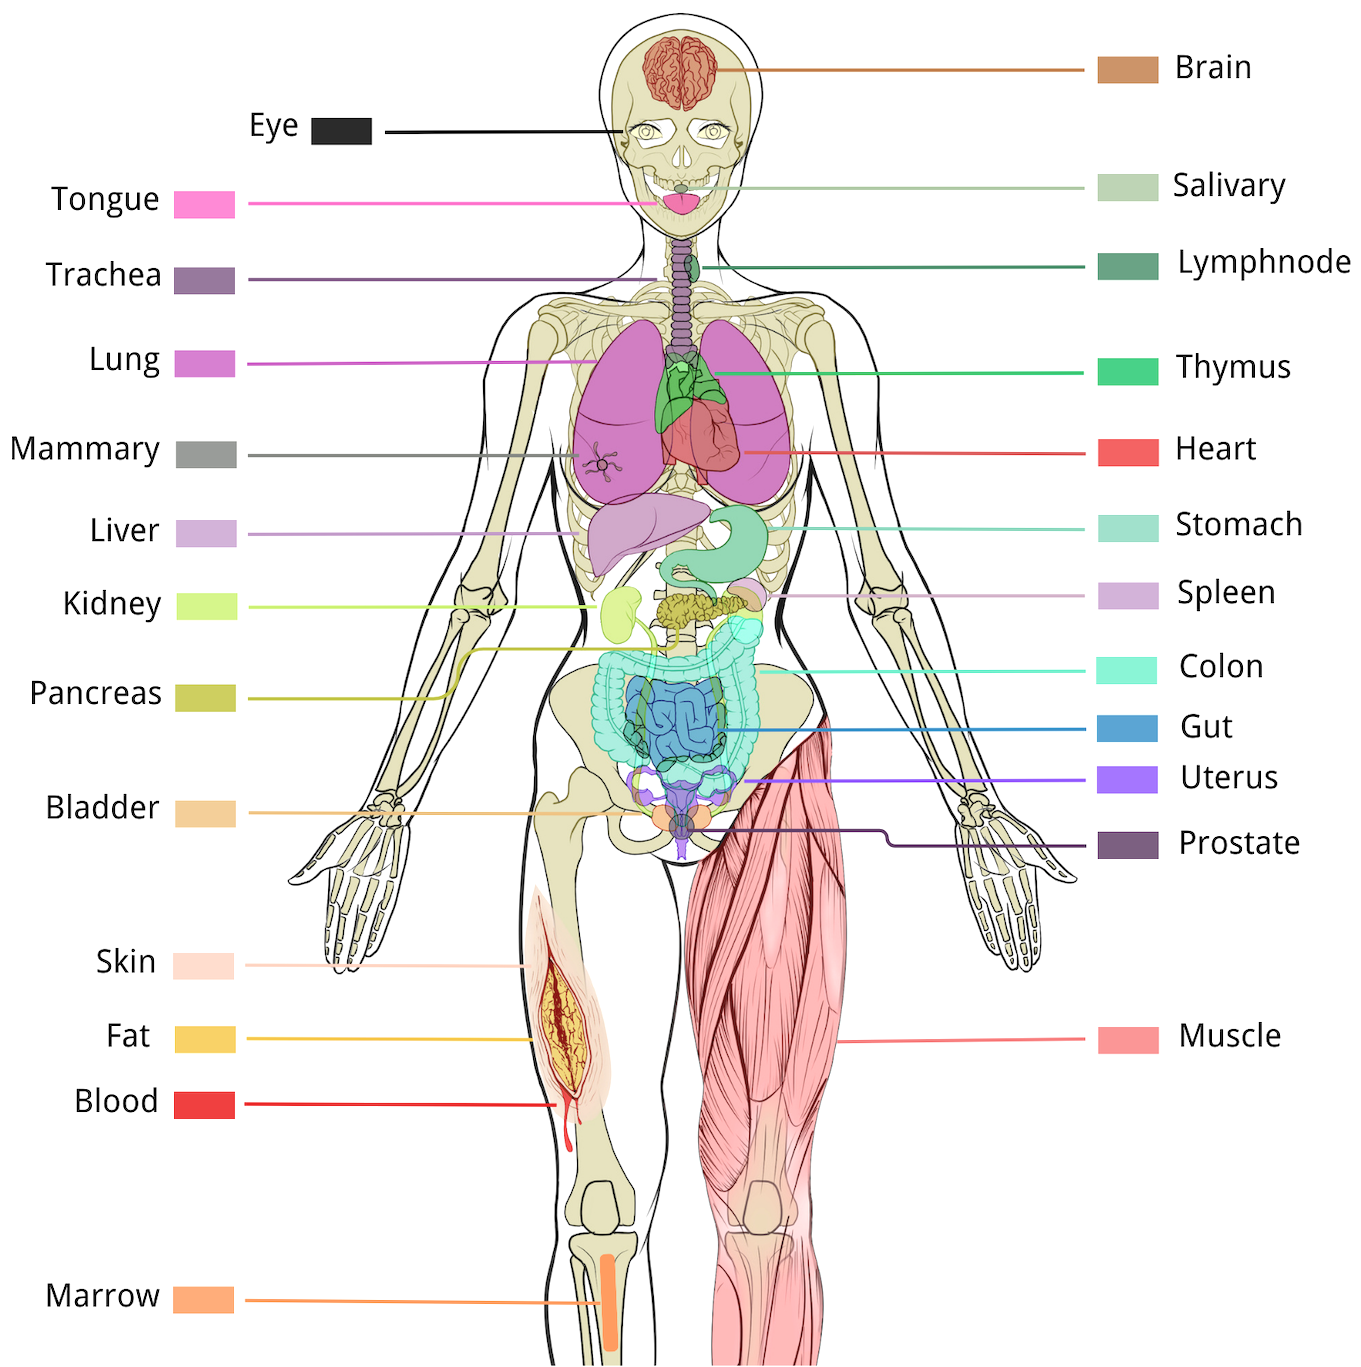
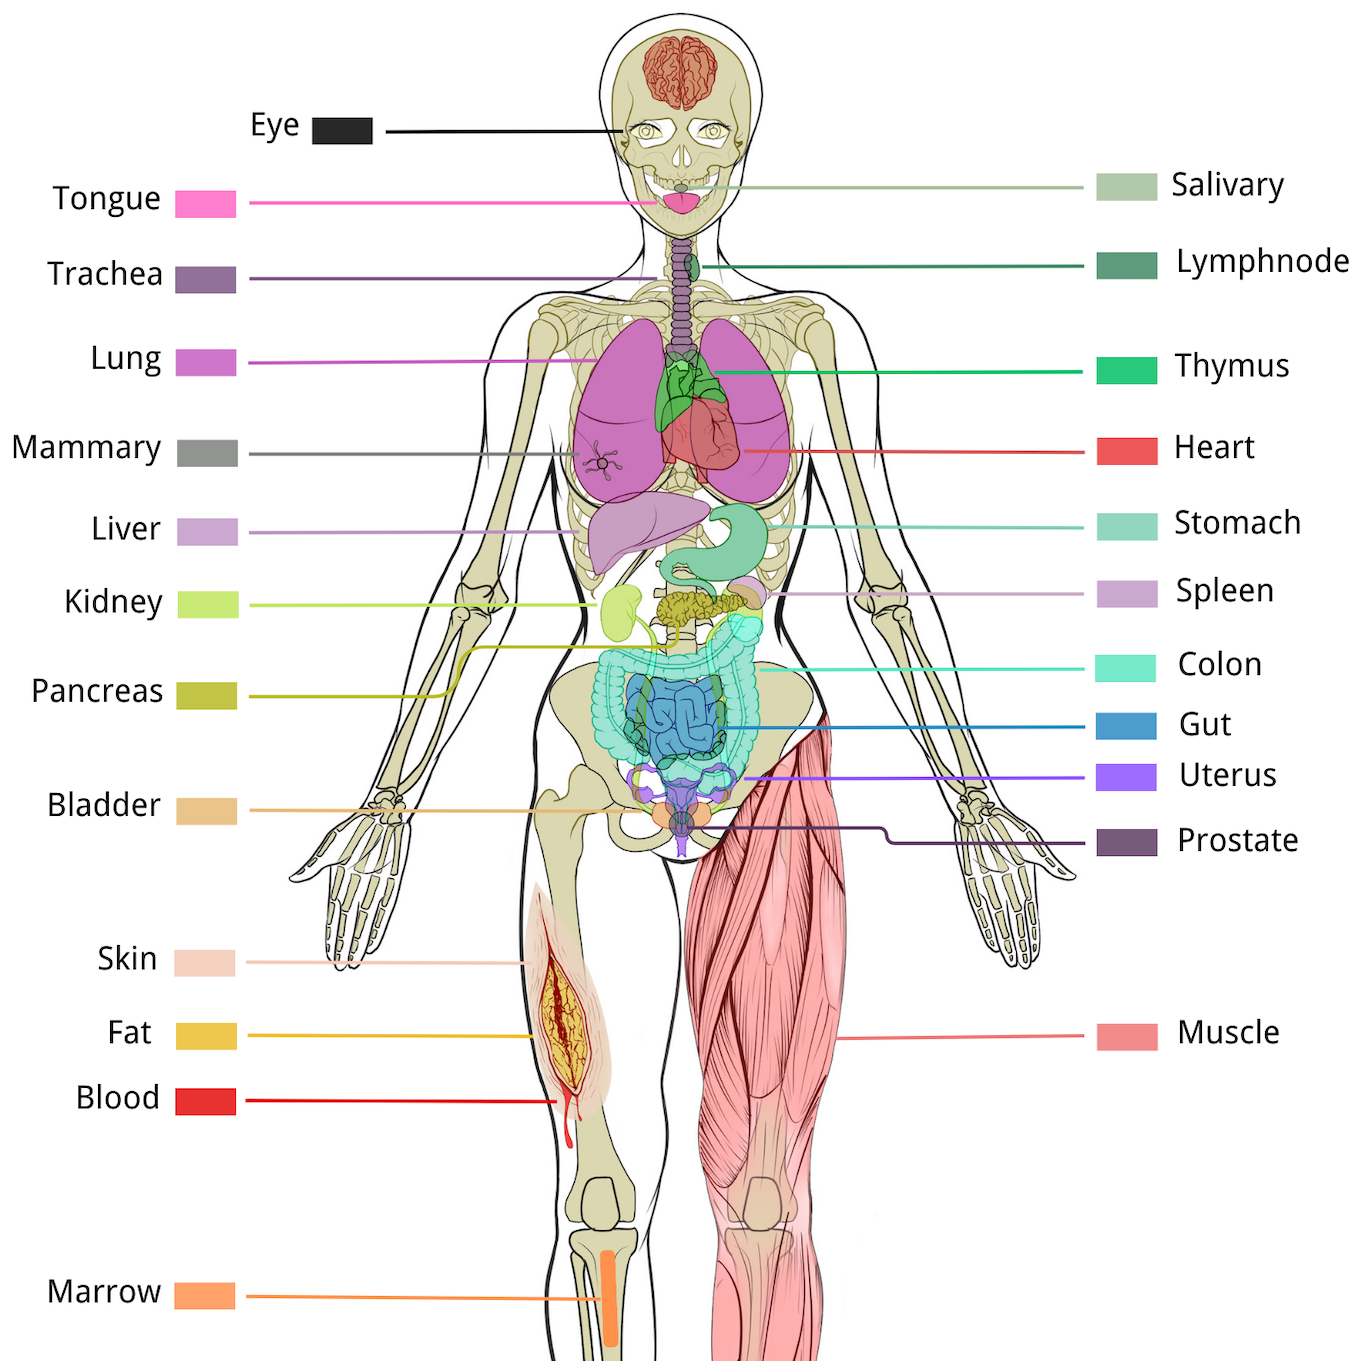
Add coordinates for organ labels

diff --git a/src/utils/organismMetadata.js b/src/utils/organismMetadata.js
@@ -66,71 +66,163 @@ const organismMetadata = {
       "bladder": {
         coords: "649,806,649,832,670,832,670,807"
       },
+      "bladder-label": {
+        coords: "44,779,243,834",
+        shape: "rect"
+      },
       "blood": {
         coords: "555,1083,563,1157,576,1154,570,1096"
+      },
+      "blood-label": {
+        coords: "55,1078,244,1124",
+        shape: "rect"
       },
       "colon": {
         coords: "718,677,707,648,719,626,740,615,762,621,752,662,756,696,758,736,741,779,722,760,725,736,723,700"
       },
+      "colon-label": {
+        coords: "1089,645,1309,689",
+        shape: "rect"
+      },
       "eye": {
         coords: "629,131,647,124,662,135,652,139,638,137"
+      },
+      "eye-label": {
+        coords: "381,150,245,107",
+        shape: "rect"
       },
       "fat": {
         coords: "549,956,539,1022,551,1072,575,1095,590,1058,581,1005"
       },
+      "fat-label": {
+        coords: "55,1013,244,1057",
+        shape: "rect"
+      },
       "gut": {
         coords: "626,676,626,758,717,759,715,676"
+      },
+      "gut-label": {
+        coords: "1089,703,1259,748",
+        shape: "rect"
       },
       "heart": {
         coords: "662,434,664,463,676,465,673,456,694,465,713,471,732,468,739,452,732,422,727,405,697,398"
       },
+      "heart-label": {
+        coords: "1091,427,1312,474",
+        shape: "rect"
+      },
       "kidney": {
         coords: "634,587,619,586,606,595,601,612,601,628,608,638,618,643,630,638,635,616,642,599"
+      },
+      "kidney-label": {
+        coords: "52,580,244,628",
+        shape: "rect"
       },
       "liver": {
         coords: "594,575,588,540,592,518,605,504,628,503,646,492,689,498,711,508,703,521,674,542,644,551,624,555,607,573"
       },
+      "liver-label": {
+        coords: "50,506,243,552",
+        shape: "rect"
+      },
       "lung": {
         coords: "666,364,660,330,642,319,617,337,589,377,577,419,571,457,584,491,605,504,626,503,647,491,666,466,655,431,655,396"
+      },
+      "lung-label": {
+        coords: "46,338,243,384",
+        shape: "rect"
       },
       "lymphnode": {
         coords: "683,254,697,254,700,281,685,283"
       },
+      "lymphnode-label": {
+        coords: "1091,239,1359,288",
+        shape: "rect"
+      },
       "mammary": {
         coords: "578,441,624,441,624,483,580,483"
+      },
+      "mammary-label": {
+        coords: "7,424,243,476",
+        shape: "rect"
       },
       "marrow": {
         coords: "600,1256,605,1350,618,1350,614,1256"
       },
+      "marrow-label": {
+        coords: "39,1269,242,1321",
+        shape: "rect"
+      },
       "muscle": {
         coords: "826,721,753,791,701,866,688,911,688,994,703,1080,700,1157,719,1235,810,1234,809,1170,818,1109,834,1057,845,956,842,852"
+      },
+      "muscle-label": {
+        coords: "1092,1011,1306,1059",
+        shape: "rect"
       },
       "pancreas": {
         coords: "744,607,711,618,690,622,673,628,656,618,660,602,673,595,697,593,731,599"
       },
+      "pancreas-label": {
+        coords: "6,668,243,717",
+        shape: "rect"
+      },
       "prostate": {
         coords: "670,814,694,814,694,839,670,839"
+      },
+      "prostate-label": {
+        coords: "1090,821,1310,864",
+        shape: "rect"
       },
       "salivary": {
         coords: "673,183,688,183,688,191,673,191"
       },
+      "salivary-label": {
+        coords: "1091,162,1315,211",
+        shape: "rect"
+      },
       "skin": {
         coords: "536,885,576,946,601,1009,611,1069,602,1107,582,1123,577,1096,592,1059,582,1003,551,956,543,986,537,1023,555,1082,546,1099,531,1053,521,956"
+      },
+      "skin-label": {
+        coords: "54,936,243,984",
+        shape: "rect"
       },
       "spleen": {
         coords: "726,589,739,580,753,578,765,589,766,606,751,612,739,600"
       },
+      "spleen-label": {
+        coords: "1090,570,1311,617",
+        shape: "rect"
+      },
       "thymus": {
         coords: "681,356,666,353,655,396,656,435,671,427,691,408,694,398,727,403,711,372,696,351"
+      },
+      "thymus-label": {
+        coords: "1091,344,1312,392",
+        shape: "rect"
       },
       "tongue": {
         coords: "662,197,682,194,701,197,694,209,682,215,670,208"
       },
+      "tongue-label": {
+        coords: "243,230,46,176",
+        shape: "rect"
+      },
       "trachea": {
         coords: "671,240,672,347,693,343,690,282,684,270,684,252,691,252,690,240"
       },
+      "trachea-label": {
+        coords: "44,251,242,301",
+        shape: "rect"
+      },
       "uterus": {
         coords: "628,766,729,765,730,804,628,806"
+      },
+      "uterus-label": {
+        coords: "1089,756,1311,799",
+        shape: "rect"
       }
     }
     // anatomyImage: require("../asset/anatomy/h_sapiens.jpeg"),

diff --git a/src/components/plots/OrganismProfile.js b/src/components/plots/OrganismProfile.js
@@ -60,6 +60,9 @@ const OrganismProfile = ({ organism }) => {
     
         const areas = Object.keys(orgMeta[organism].organs).map(organ => {
             const coords = orgMeta[organism].organs[organ].coords.split(',').map(Number);
+            const shape = orgMeta[organism].organs[organ].shape || 'poly';
+            
+            let isOrganLabel = organ.split("-")[1] === "label";
             
             // Adjust the coordinates using the scaling factors
             const adjustedCoords = coords.map((coord, index) => 
@@ -69,10 +72,11 @@ const OrganismProfile = ({ organism }) => {
             return {
                 id: organ,
                 name: organ,
-                shape: 'poly',
+                shape: shape,
                 coords: adjustedCoords,
                 preFillColor: "transparent",
-                fillColor: "yellow",
+                fillColor: isOrganLabel ? "rgba(255,250,0, 0.4)" : "yellow",
+                strokeColor: "transparent",
             };
         });
     
@@ -136,10 +140,9 @@ const OrganismProfile = ({ organism }) => {
                 <div style={{ padding: "0% 3%", display: 'flex', justifyContent: 'space-between', alignItems: 'flex-start' }}>
                     <div style={{ flex: 1, overflow: 'auto', minWidth: '0', display: 'flex', flexDirection: 'column', alignItems: 'center' }}>
                         {renderImageMap()}
-                        <Text style={{ alignSelf: 'center' }}>Hover over and click on organs to view more detail</Text>
+                        <Text style={{ alignSelf: 'center' }}>Hover over any organ or its label, then click for detailed information.</Text>
                     </div>
                     <div style={{ flex: 1, overflow: 'auto', minWidth: '0' }}>
-                        {/* Render the chart for a specific organ, say "Heart" */}
                         {apiCellOrgan && clickedOrgan && <OrganCellChart apiCellOrgan={apiCellOrgan} organName={clickedOrgan} />}
                     </div>
                 </div>

diff --git a/src/components/plots/OrganCellChart.js b/src/components/plots/OrganCellChart.js
@@ -69,7 +69,6 @@ const OrganCellChart = ({ apiCellOrgan, organName,  }) => {
 
   const yAxisLabelClick = (event) => {
     const clickedCellType = event.target.textContent;
-    // console.log(`clicking cell type ${cellType}`);
     let message = `Show 10 markers of ${clickedCellType} in ${apiCellOrgan.organism} ${organName}`;
     setLocalMessage(message);
   };
